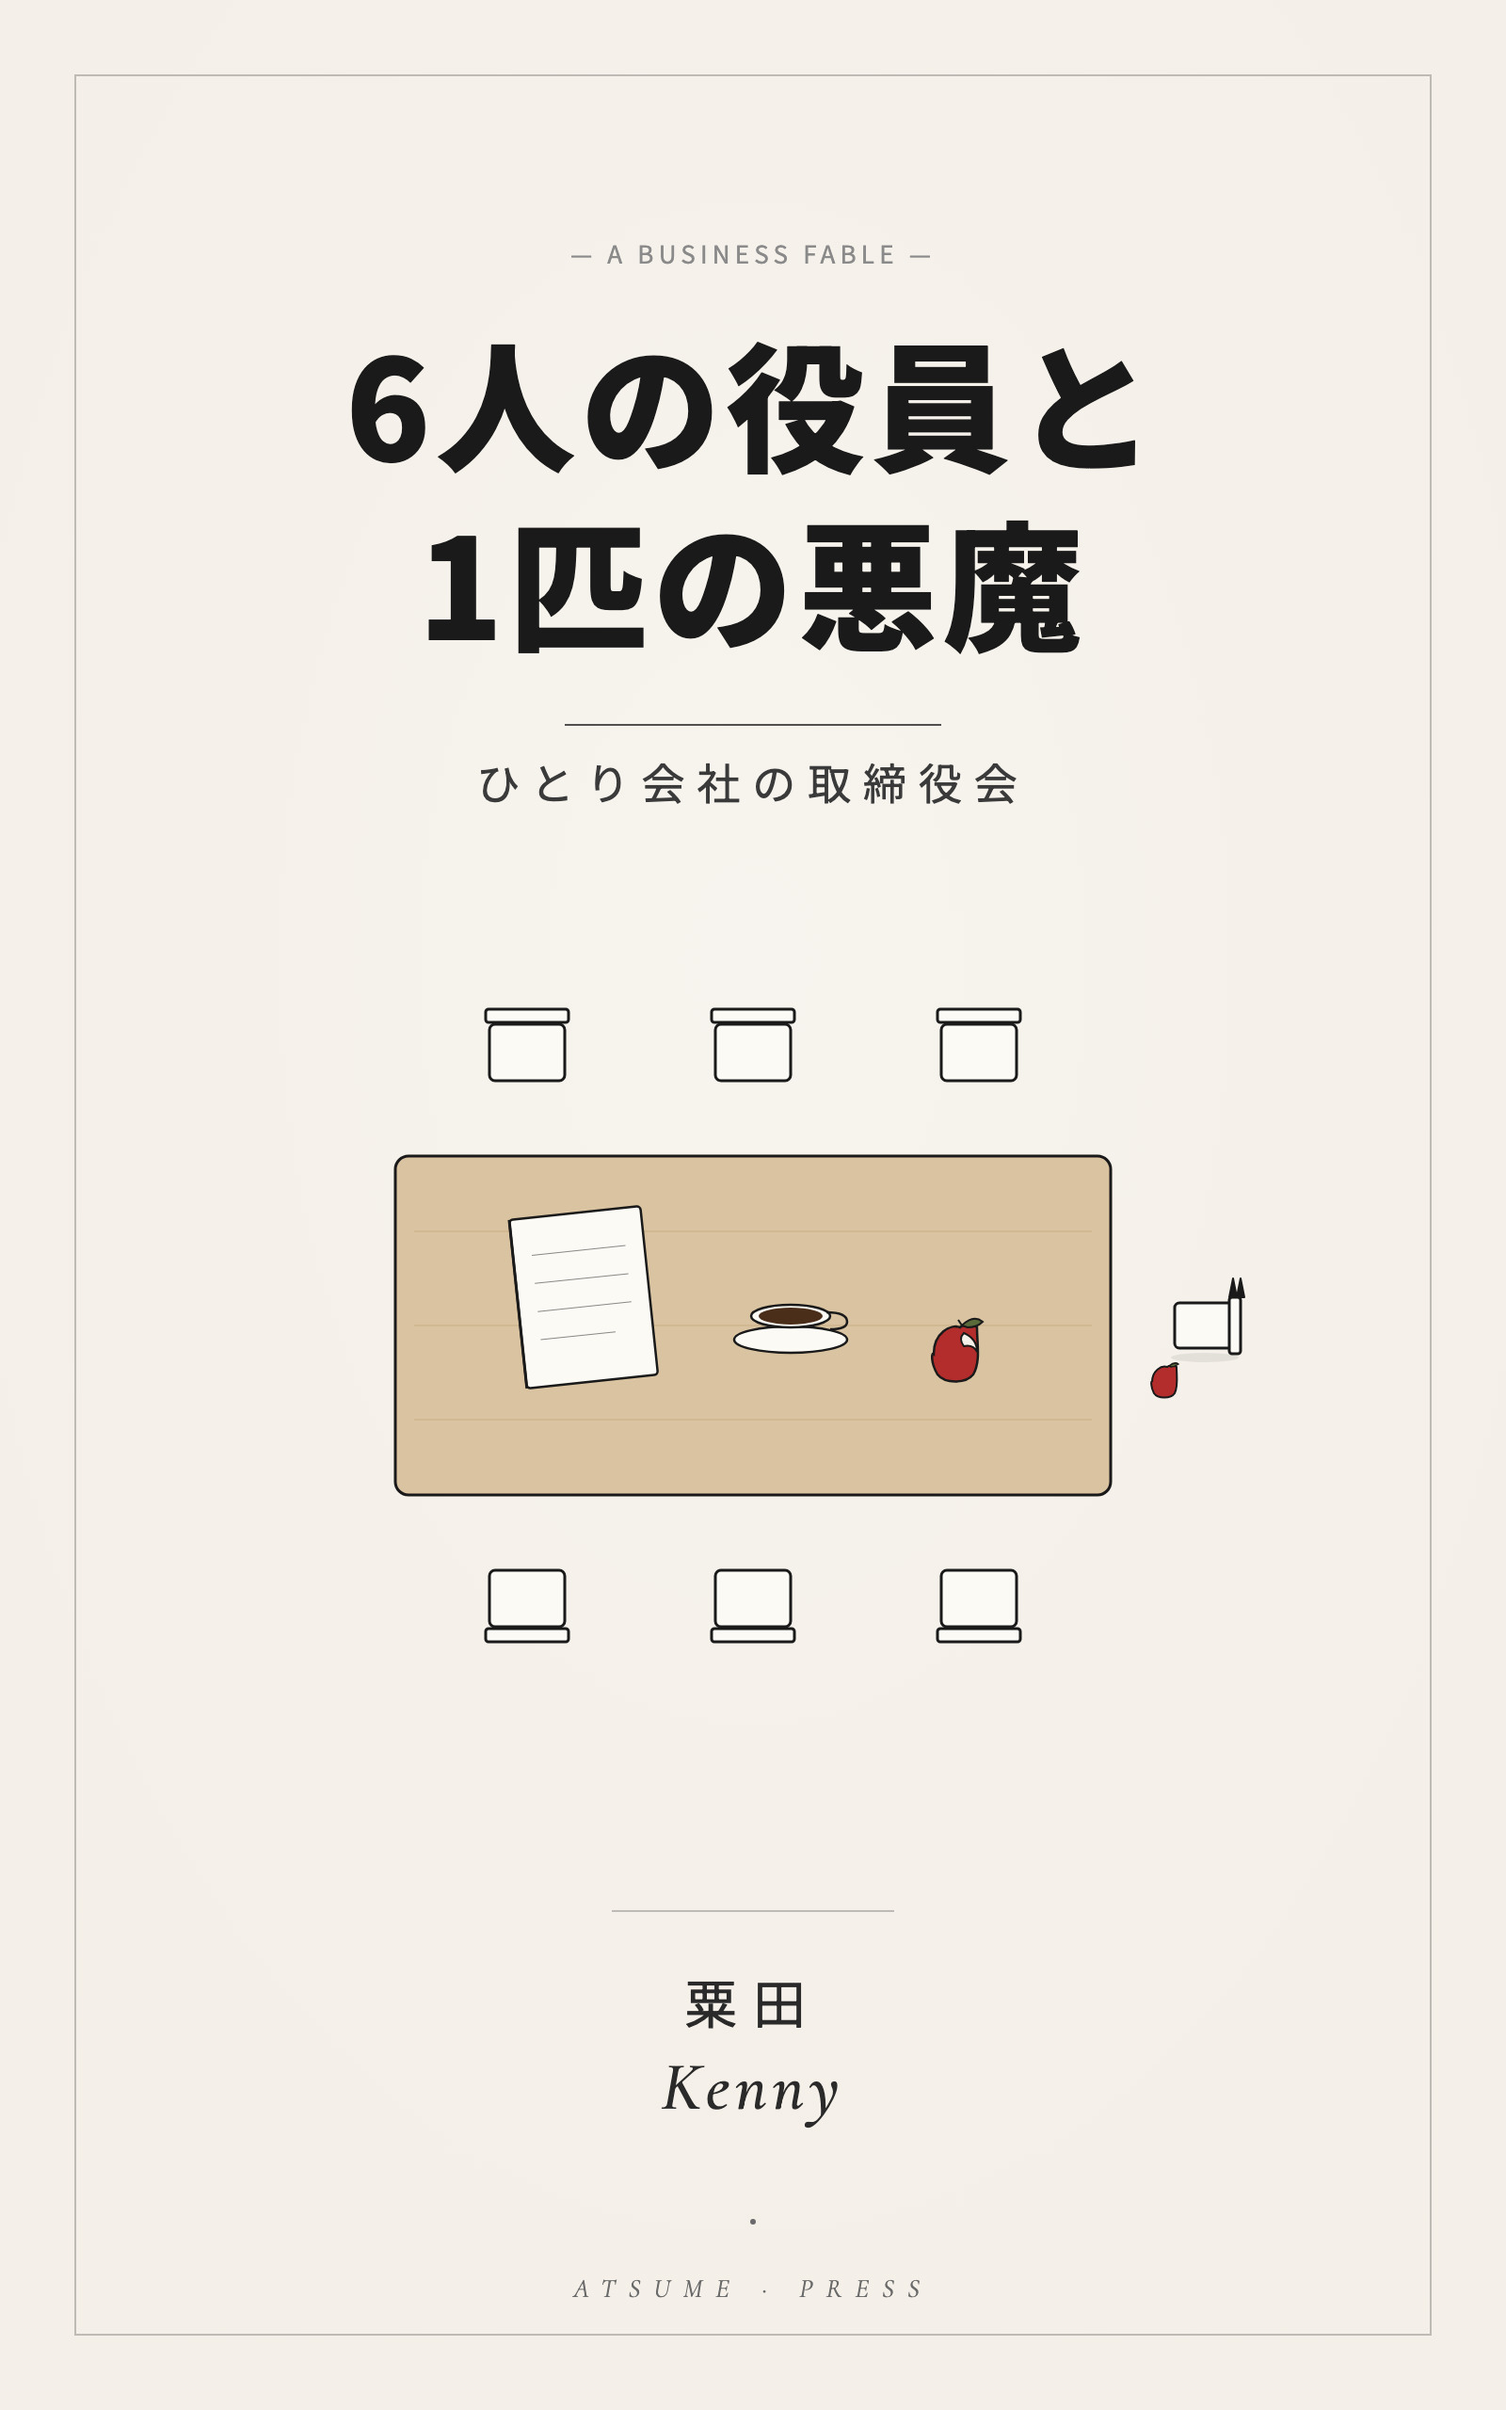
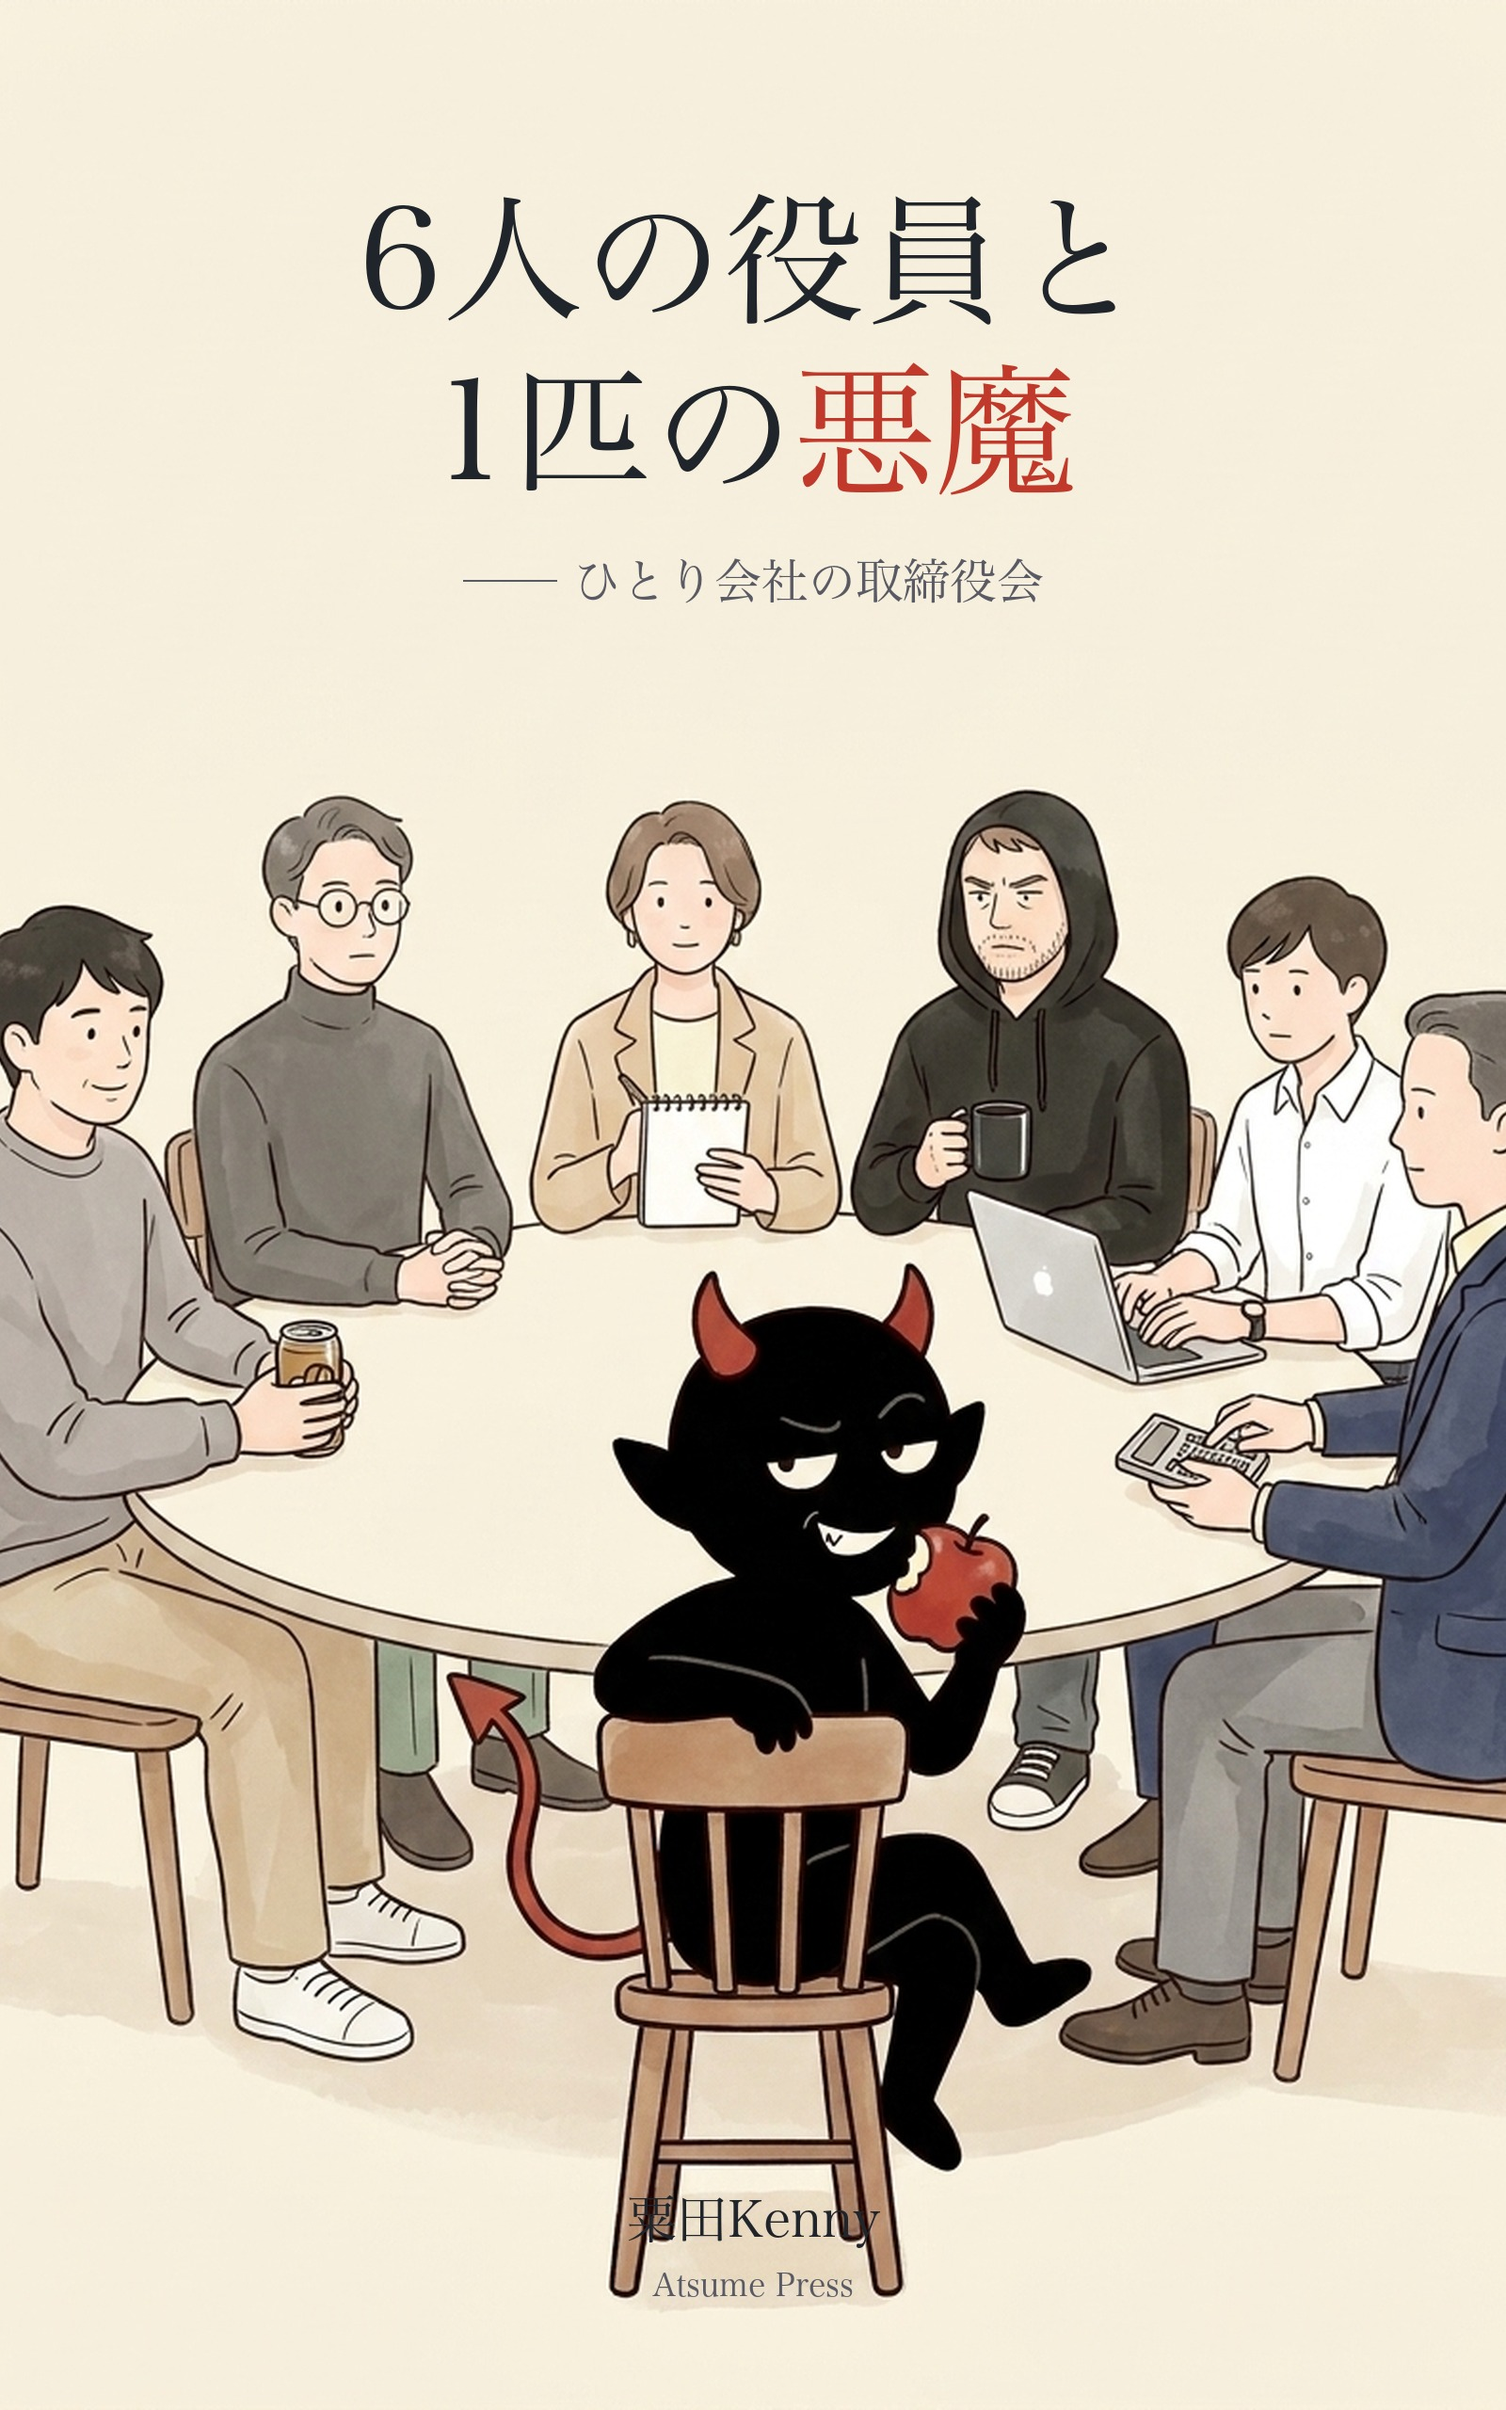
表紙完成: アートにタイトル組み(KDP 1600x2560)
- scripts/make_cover.py: cover-art に『6人の役員と1匹の悪魔』(悪魔=赤)＋サブ＋著者/版元をヒラギノ明朝で組み、1600x2560 で書き出し
- cover/cover.png, cover/cover.jpg 更新(KDP入稿用)

diff --git a/scripts/make_cover.py b/scripts/make_cover.py
@@ -1,0 +1,50 @@
+#!/usr/bin/env python3
+# 表紙アート(art/cover-art.png)にタイトルを組んで KDP判型 1600x2560 で書き出す。
+from PIL import Image, ImageDraw, ImageFont
+
+ROOT = "/Users/yuki/workspace/the-board-of-one-and-a-devil"
+ART = f"{ROOT}/art/cover-art.png"
+FONT = "/System/Library/Fonts/ヒラギノ明朝 ProN.ttc"
+W, H = 1600, 2560
+
+def f(size, idx=0):
+    try: return ImageFont.truetype(FONT, size, index=idx)
+    except Exception: return ImageFont.truetype(FONT, size)
+
+# 1) 背景=アートを cover で敷く(中央クロップ)
+art = Image.open(ART).convert("RGB")
+scale = max(W / art.width, H / art.height)
+art2 = art.resize((round(art.width * scale), round(art.height * scale)), Image.LANCZOS)
+left = (art2.width - W) // 2; top = (art2.height - H) // 2
+canvas = art2.crop((left, top, left + W, top + H))
+
+d = ImageDraw.Draw(canvas)
+DARK = (32, 36, 43); RED = (192, 57, 43); MUTED = (90, 90, 100)
+
+def center(text, font, y, fill):
+    w = d.textlength(text, font=font)
+    d.text(((W - w) / 2, y), text, font=font, fill=fill)
+    return w
+
+def center_two(a, b, font, y, fa, fb):
+    wa = d.textlength(a, font=font); wb = d.textlength(b, font=font)
+    x = (W - (wa + wb)) / 2
+    d.text((x, y), a, font=font, fill=fa)
+    d.text((x + wa, y), b, font=font, fill=fb)
+
+# 2) タイトル(上部の余白に)。「悪魔」だけ赤。
+title = f(150, idx=1)
+center("6人の役員と", title, 200, DARK)
+center_two("1匹の", "悪魔", title, 200 + 182, DARK, RED)
+# サブタイトル
+sub = f(50)
+center("── ひとり会社の取締役会", sub, 200 + 182 + 182 + 28, MUTED)
+
+# 3) 著者・版元(下部)
+au = f(54); pr = f(34)
+center("粟田Kenny", au, H - 230, DARK)
+center("Atsume Press", pr, H - 150, MUTED)
+
+canvas.save(f"{ROOT}/cover/cover.png")
+canvas.convert("RGB").save(f"{ROOT}/cover/cover.jpg", quality=92)
+print(f"wrote cover/cover.png and cover/cover.jpg ({W}x{H})")
